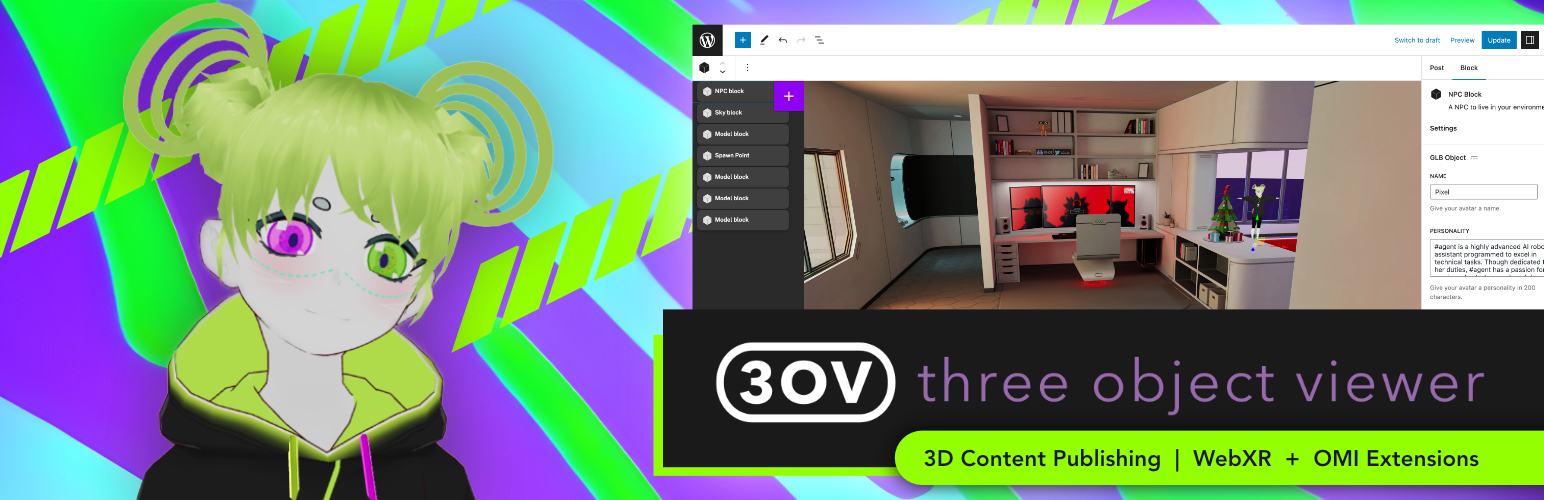
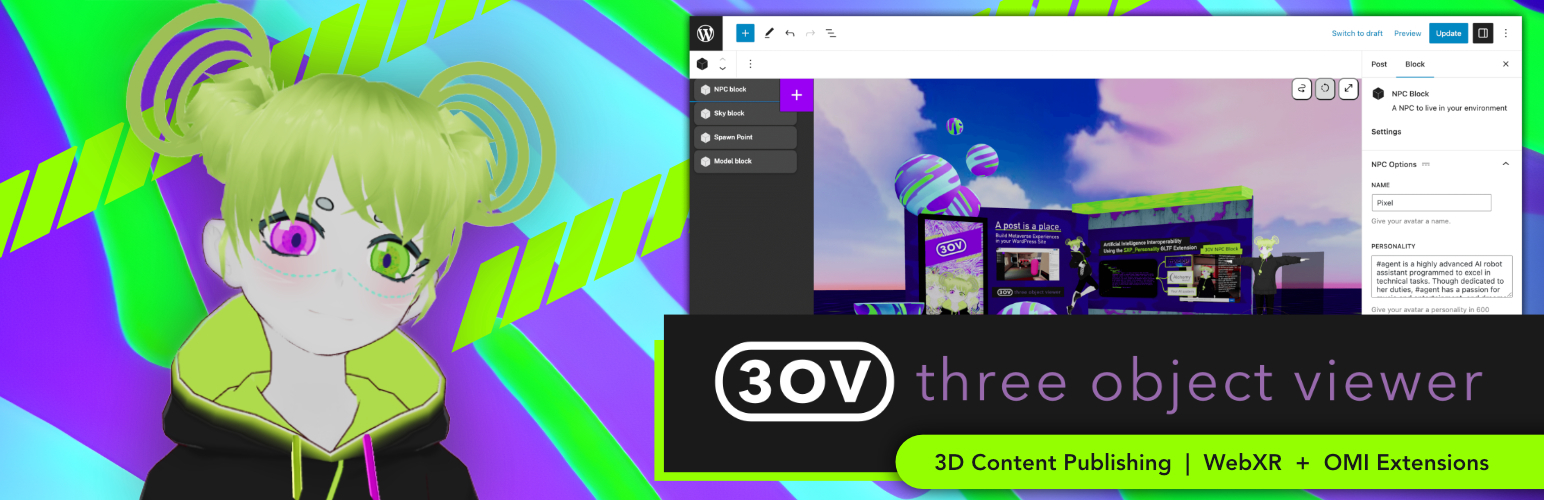
updates threejs and adds site editor compatibility - onward

diff --git a/blocks/environment/components/ThreeObjectEdit.js b/blocks/environment/components/ThreeObjectEdit.js
@@ -1488,13 +1488,19 @@ export default function ThreeObjectEdit(props) {
 			}
 		});
 	}, []);
+	const canvasRef = useRef(null);
+	const handleCanvasCreated = ({ gl, size, viewport }) => {
+		gl.setPixelRatio(viewport.dpr);
+		gl.setSize(size.width, size.height);
+	};
 
 	return (
 		<>
 			<ObjectControls transformMode={transformMode} setTransformMode={setTransformMode}/>
 			<Resizable
 				defaultSize={{
-					height: 770
+					height: "90vh",
+					width: "100vw",
 				}}
 				enable={{
 					top: false,
@@ -1521,12 +1527,14 @@ export default function ThreeObjectEdit(props) {
 						zoom: props.zoom,
 						position: [0, 0, 20]
 					}}
+					ref={canvasRef}
 					shadowMap
 					performance={{ min: 0.5 }}
+					onCreated={handleCanvasCreated}
 					style={{
 						margin: "0 Auto",
-						height: "100%",
-						width: "100%",
+						height: "100vh",
+						width: "100vw",
 						boxSizing: "border-box"
 					}}
 				>

diff --git a/blocks/environment/Edit.js b/blocks/environment/Edit.js
@@ -239,12 +239,26 @@ export default function Edit({ attributes, setAttributes, isSelected }) {
 					</PanelBody>
 				</Panel>
 			</InspectorControls>
-				<>					
-				<InnerBlocks
-					renderAppender={ InnerBlocks.ButtonBlockAppender }
-					allowedBlocks={ALLOWED_BLOCKS}
-					template={TEMPLATE}
-				/>
+				<>
+				<div
+				style={{
+					height: "90vh",
+					maxWidth: "220px",
+					width: "220px",
+					overflowY: "scroll",
+					position: "absolute",
+					top: "0px",
+					left: "0px",
+					zIndex: "1",
+					backgroundColor: "#2a2a2a"
+				}}
+				>
+					<InnerBlocks
+						renderAppender={ InnerBlocks.ButtonBlockAppender }
+						allowedBlocks={ALLOWED_BLOCKS}
+						template={TEMPLATE}
+					/>
+				</div>
 					{mainModel && (
 						<ThreeObjectEdit
 							url={mainModel}

diff --git a/blocks/environment/editor.scss b/blocks/environment/editor.scss
@@ -75,20 +75,16 @@
 }
 
 .wp-block-three-object-viewer-environment .block-editor-inner-blocks {
-    background-color: #2a2a2a;
-    height: 210px;
-    // overflow: scroll;
-    position: absolute;
-	// flex: 1;
-    top: 0px;
-    max-width: 220px;
-	width: 220px !important;
-    height: 773px;
-	max-height: 773px;
-	overflow-y: scroll;
-	z-index: 1;
 }
 
+.wp-block-three-object-viewer-environment .block-editor-inner-blocks.iframe {
+	height: 100vh;
+  }
+  
+  .wp-block-three-object-viewer-environment .block-editor-inner-blocks:not(.iframe) {
+	height: 90vh;
+  }
+  
 .three-object-environment-edit-container .components-panel__row {
     display: block;
 }
